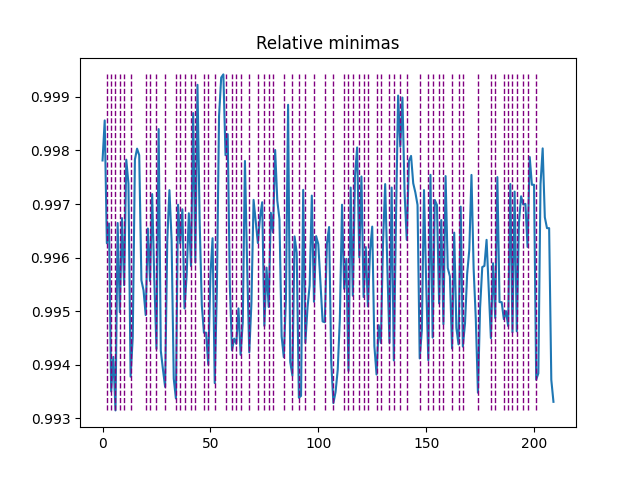
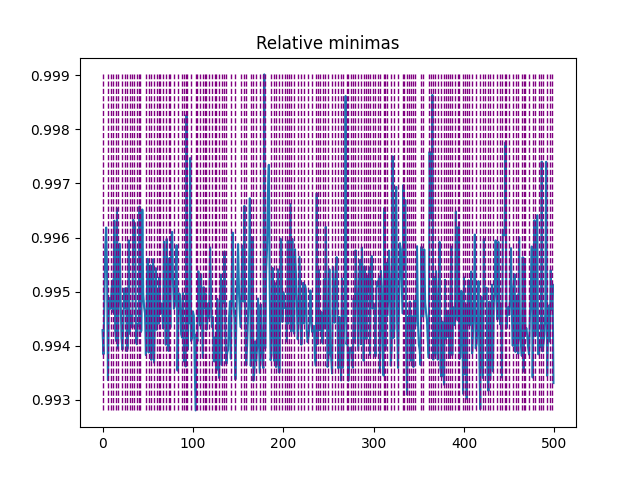
opti ram

diff --git a/prg/embedding_split.py b/prg/embedding_split.py
@@ -157,30 +157,42 @@ def paragraphs_by_embedding(sentences: List[str], output_path: str, file_name: s
     Take a list of sentences and split them into paragraphes
     return the list of paragraphes
     """
-    embeddings = encode_sentences(sentences, batch_size=batch_size)
 
-    similarities = get_cosine_similarity(
-        embeddings,
-        os.path.join(output_path, "Cosine_similarities_matrix.png"),
-        save,
-        display
-    )
+    paragraphs = []
+    total_sentences = len(sentences)
+    start_idx = 0
 
-    activated_similarities = activate_similarities(similarities, p_size=2)
+    while start_idx < total_sentences:
+        end_idx = min(start_idx + 500, total_sentences)
+        batch_sentences = sentences[start_idx:end_idx]
 
-    # Increase Order to reduce number of paragraphe
-    minimas = get_minimas(
-        activated_similarities,
-        1,
-        os.path.join(output_path, "Relative_minimas.png"),
-        save,
-        display,
-    )
+        embeddings = encode_sentences(batch_sentences, batch_size=batch_size)
 
-    if len(minimas[0]):
-        paragraphs = create_paragraphs_at_minimas(sentences, minimas)
-    else:
-        paragraphs = ''.join(sentences)
+        similarities = get_cosine_similarity(
+            embeddings,
+            os.path.join(output_path, "Cosine_similarities_matrix.png"),
+            save,
+            display
+        )
+
+        activated_similarities = activate_similarities(similarities, p_size=2)
+
+        # Increase Order to reduce number of paragraphe
+        minimas = get_minimas(
+            activated_similarities,
+            1,
+            os.path.join(output_path, "Relative_minimas.png"),
+            save,
+            display,
+        )
+
+        if len(minimas[0]):
+            batch_paragraphs = create_paragraphs_at_minimas(batch_sentences, minimas)
+            paragraphs.extend(batch_paragraphs)
+        else:
+            paragraphs.extend(batch_sentences)
+
+        start_idx = end_idx
 
     if display and output_path:
         plot_size_repartition(

diff --git a/main.py b/main.py
@@ -25,7 +25,7 @@ def main():
     # plot_size_repartition(sentences, os.path.join(args.output_path, "sentences_traited.png"), args.save_plots)
 
     if args.mode == "embedding":
-        paragraphs = paragraphs_by_embedding(sentences, args.output_path, args.file_name, args.save_plots, args.display_plots)
+        paragraphs = paragraphs_by_embedding(sentences, args.output_path, args.file_name, args.save_plots, args.display_plots, 32)
 
     elif args.mode == "simple":
         paragraphs = simple_paragraphs(sentences, args.output_path, args.file_name, args.save_plots, args.display_plots, 100)
